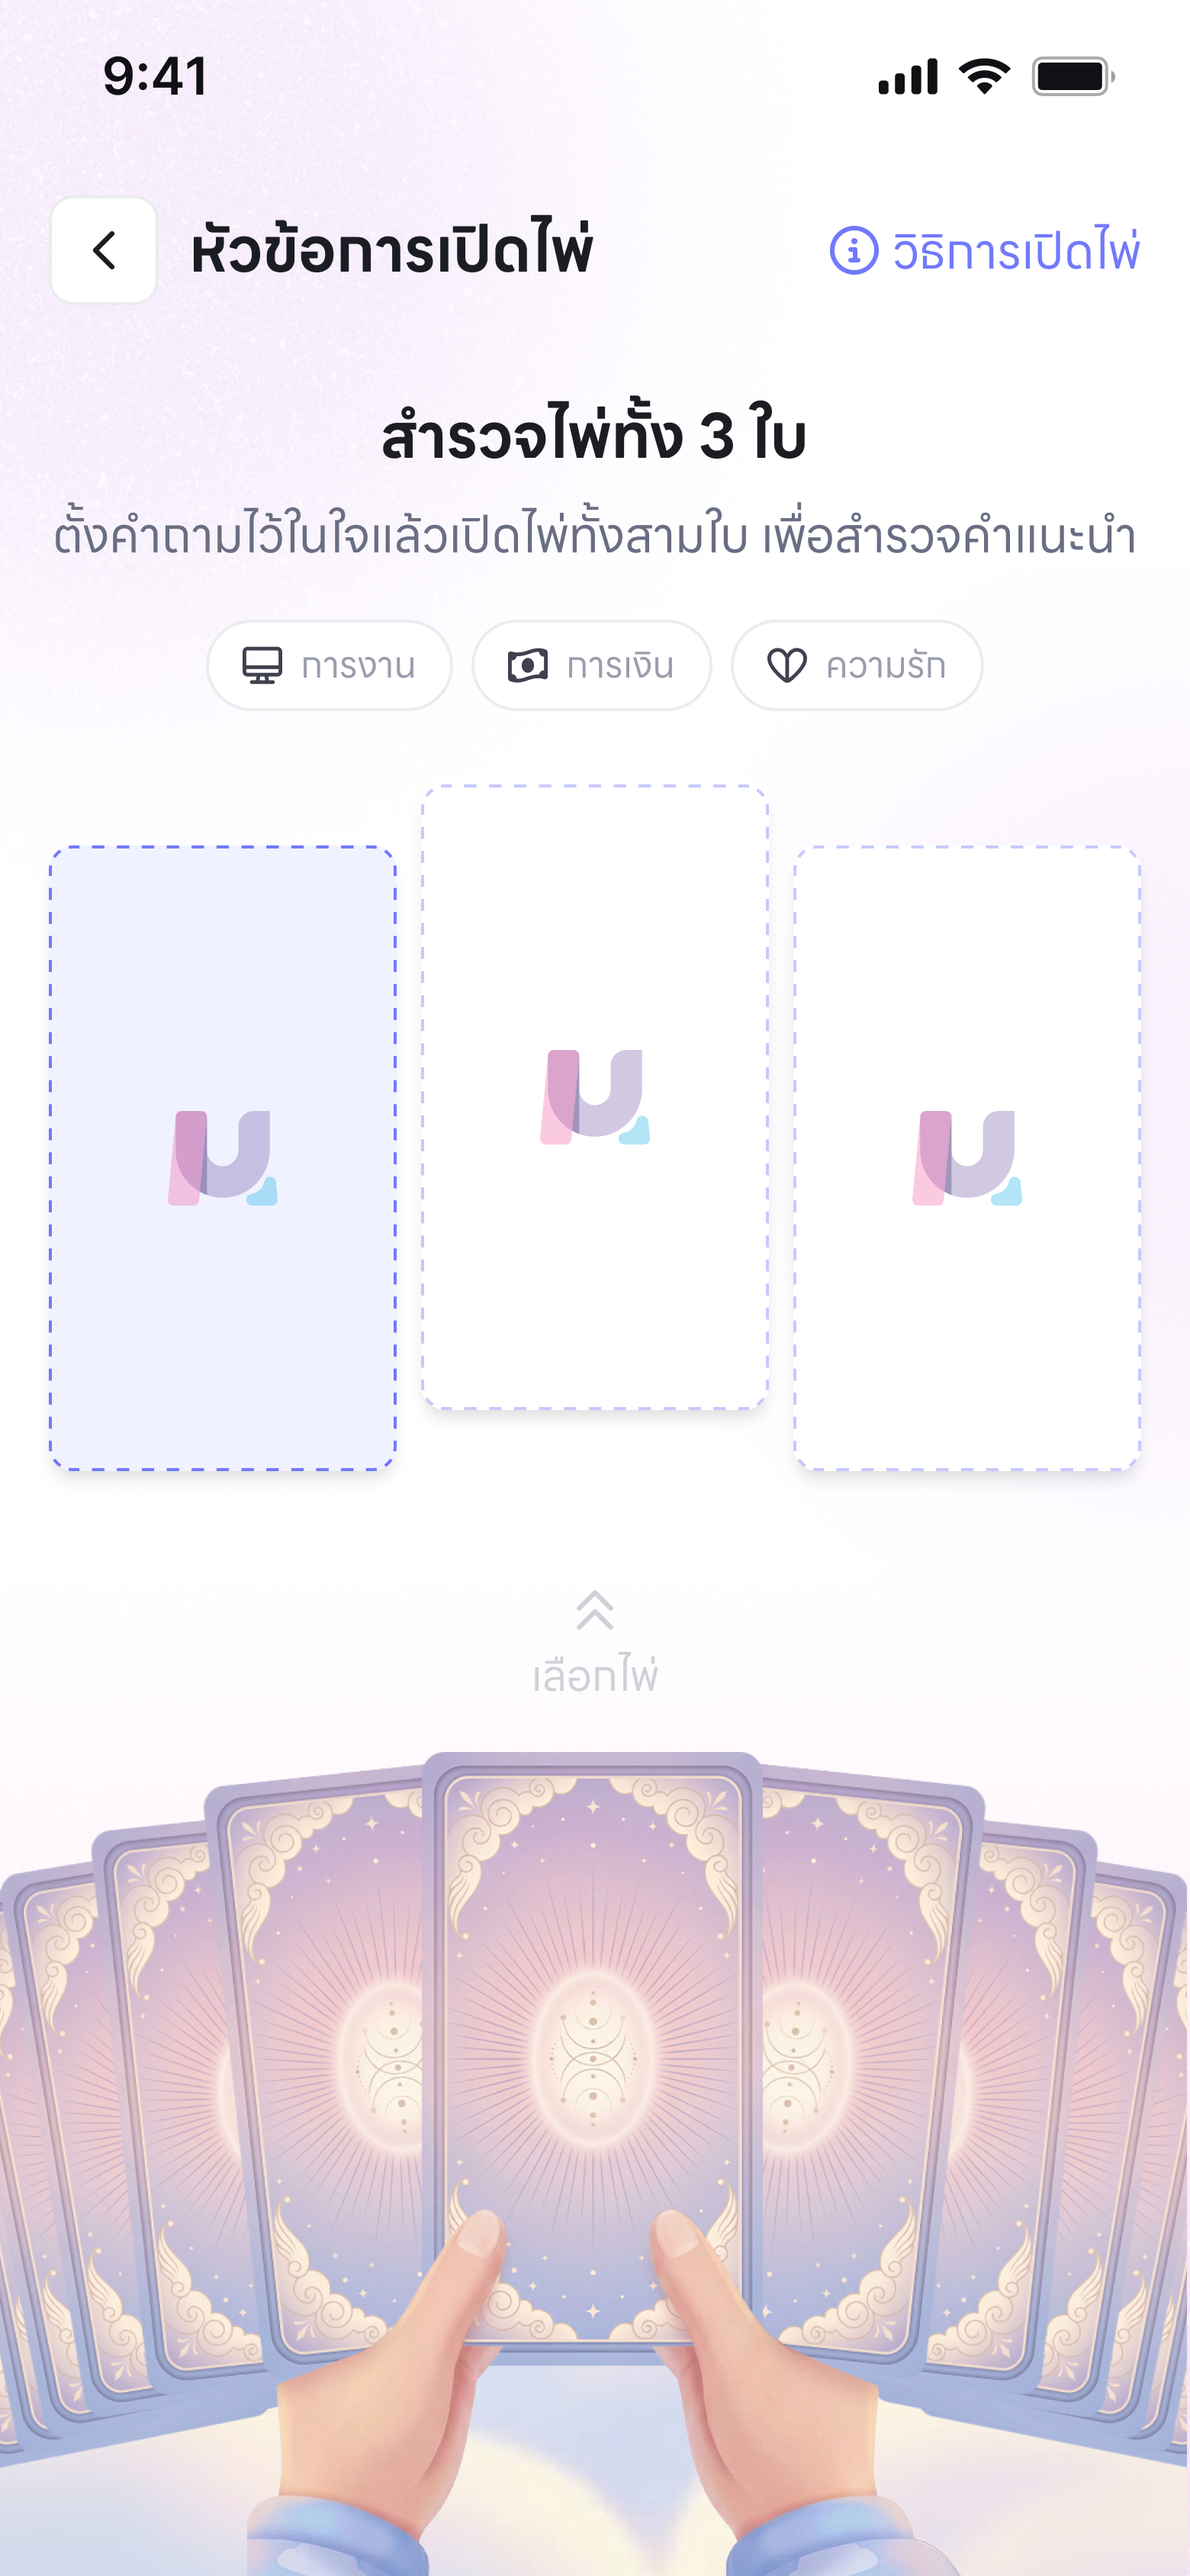
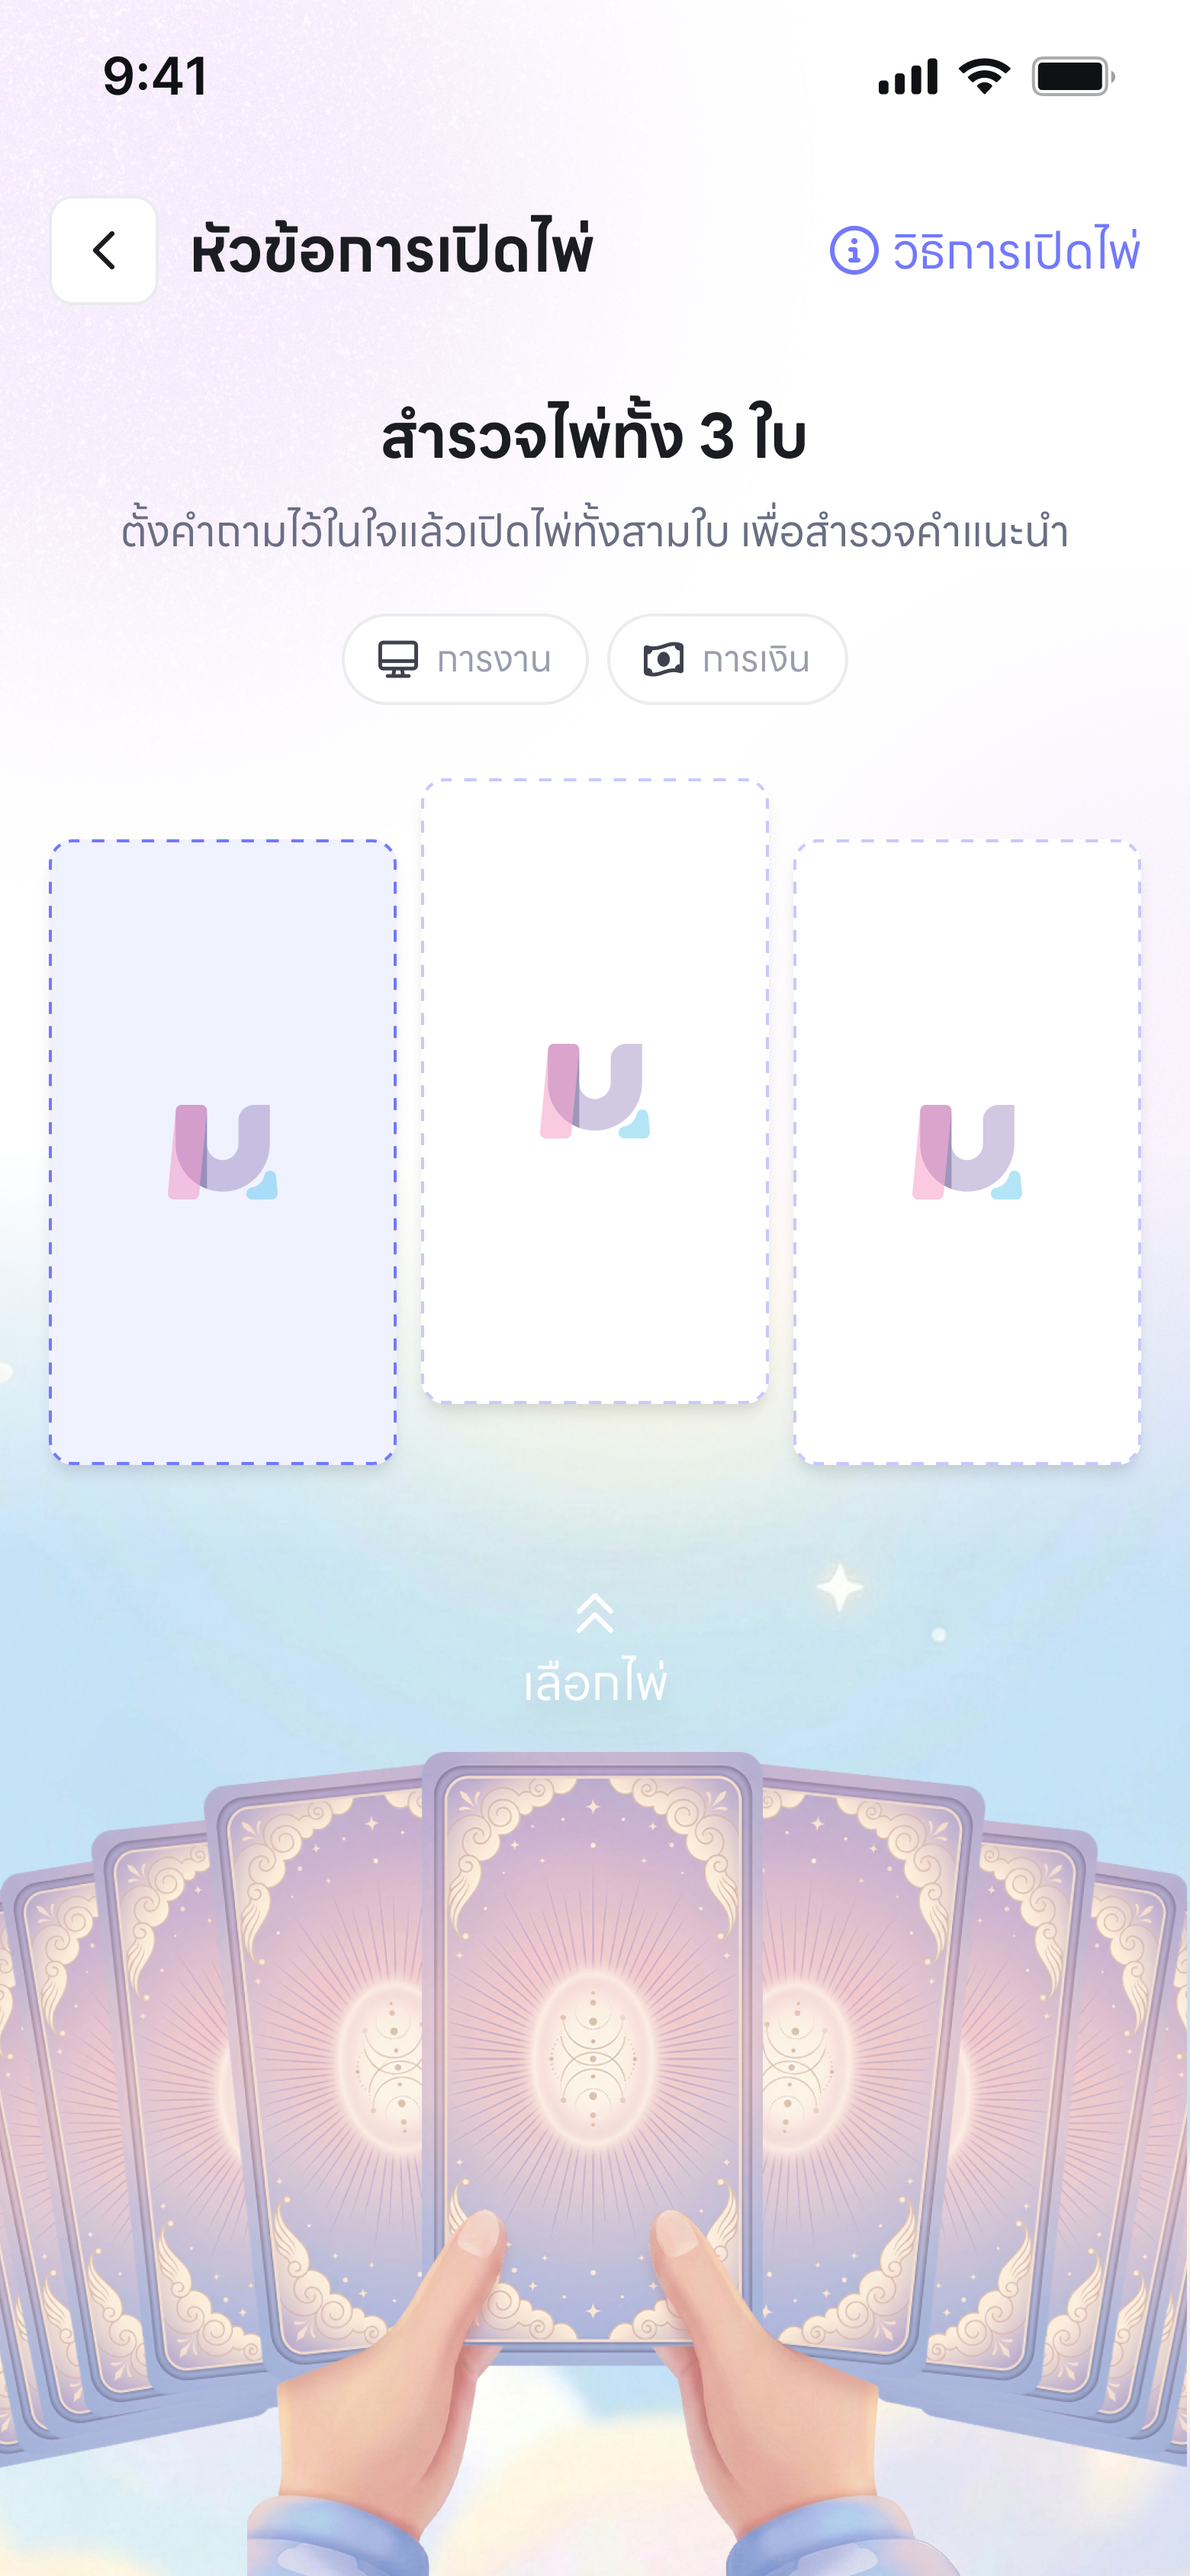
fix: reduce oversized images across Week 3 slides
ลดขนาดรูปที่ใหญ่เกินใน slide — col-visual 65→50vh, phone-mockup 58→48vh,
character images ลดลง 38vh, decorative elements ปรับ overflow hidden

diff --git a/Slide/dailymu-slide.html b/Slide/dailymu-slide.html
@@ -275,7 +275,7 @@
 
     .col-visual img {
       max-width: 100%;
-      max-height: 65vh;
+      max-height: 50vh;
       object-fit: contain;
       filter: drop-shadow(0 8px 24px rgba(0,0,0,0.08));
     }
@@ -1259,6 +1259,7 @@
       width: 100%;
       flex: 1;
       align-content: center;
+      max-height: 75%;
     }
     .screenshot-placeholder {
       display: flex;
@@ -1321,7 +1322,7 @@
       z-index: 2;
     }
     .phone-mockup img {
-      max-height: 58vh;
+      max-height: 48vh;
       width: auto;
       object-fit: contain;
       border-radius: 24px;
@@ -3815,7 +3816,7 @@
     </div>
 
     <!-- Character: bottom left -->
-    <img src="Images/Week03/Asset/ShareSocialMedia_ปีนผา 1.png" alt="Climbing Character" style="position:absolute;bottom:0;left:0;height:130%;object-fit:contain;pointer-events:none;filter:drop-shadow(0 4px 20px rgba(0,0,0,0.1));z-index:1;">
+    <img src="Images/Week03/Asset/ShareSocialMedia_ปีนผา 1.png" alt="Climbing Character" style="position:absolute;bottom:0;left:0;height:85%;object-fit:contain;pointer-events:none;filter:drop-shadow(0 4px 20px rgba(0,0,0,0.1));z-index:1;">
 
     <div class="present-hint">
       กดปุ่ม <kbd>F</kbd> เพื่อเข้าโหมด Present
@@ -3880,7 +3881,7 @@
       </div>
 
       <div class="col-visual">
-        <img src="Images/Week03/Asset/image 697.png" alt="Character" style="max-height:50vh;filter:drop-shadow(0 8px 24px rgba(0,0,0,0.08));">
+        <img src="Images/Week03/Asset/image 697.png" alt="Character" style="max-height:38vh;filter:drop-shadow(0 8px 24px rgba(0,0,0,0.08));">
       </div>
     </div>
   </div>
@@ -4138,8 +4139,8 @@
         </div>
       </div>
 
-      <div class="col-visual" style="position:absolute;bottom:calc(-8% - 100px);right:calc(-3% + 460px);width:50%;height:90%;display:flex;align-items:flex-end;justify-content:flex-end;overflow:visible;">
-        <img src="Images/Week02/Asset/Card-Hand.png" alt="Tarot Cards" style="height:85%;max-height:none;object-fit:contain;filter:drop-shadow(0 12px 40px rgba(0,0,0,0.10));transform-origin:bottom right;">
+      <div class="col-visual" style="position:absolute;bottom:-5%;right:5%;width:45%;height:80%;display:flex;align-items:flex-end;justify-content:flex-end;overflow:hidden;">
+        <img src="Images/Week02/Asset/Card-Hand.png" alt="Tarot Cards" style="height:75%;max-height:none;object-fit:contain;filter:drop-shadow(0 12px 40px rgba(0,0,0,0.10));transform-origin:bottom right;">
       </div>
     </div>
   </div>
@@ -4214,8 +4215,8 @@
         </div>
       </div>
 
-      <div class="col-visual" style="position:absolute;bottom:-8%;right:-5%;width:55%;height:110%;display:flex;align-items:flex-end;justify-content:flex-end;overflow:visible;">
-        <img src="../Preview/siam-si/MicroService_FortuneSticks_Character.png" alt="Fortune Sticks Character" style="height:110%;max-height:none;object-fit:contain;filter:drop-shadow(0 12px 40px rgba(0,0,0,0.10));transform-origin:bottom right;">
+      <div class="col-visual" style="position:absolute;bottom:-5%;right:0;width:48%;height:85%;display:flex;align-items:flex-end;justify-content:flex-end;overflow:hidden;">
+        <img src="../Preview/siam-si/MicroService_FortuneSticks_Character.png" alt="Fortune Sticks Character" style="height:85%;max-height:none;object-fit:contain;filter:drop-shadow(0 12px 40px rgba(0,0,0,0.10));transform-origin:bottom right;">
       </div>
     </div>
   </div>
@@ -4270,7 +4271,7 @@
       </div>
 
       <div class="col-visual">
-        <img src="Images/Week03/Asset/image 698.png" alt="Dream Interpretation" style="max-height:45vh;filter:drop-shadow(0 8px 24px rgba(0,0,0,0.08));">
+        <img src="Images/Week03/Asset/image 698.png" alt="Dream Interpretation" style="max-height:38vh;filter:drop-shadow(0 8px 24px rgba(0,0,0,0.08));">
       </div>
     </div>
   </div>
